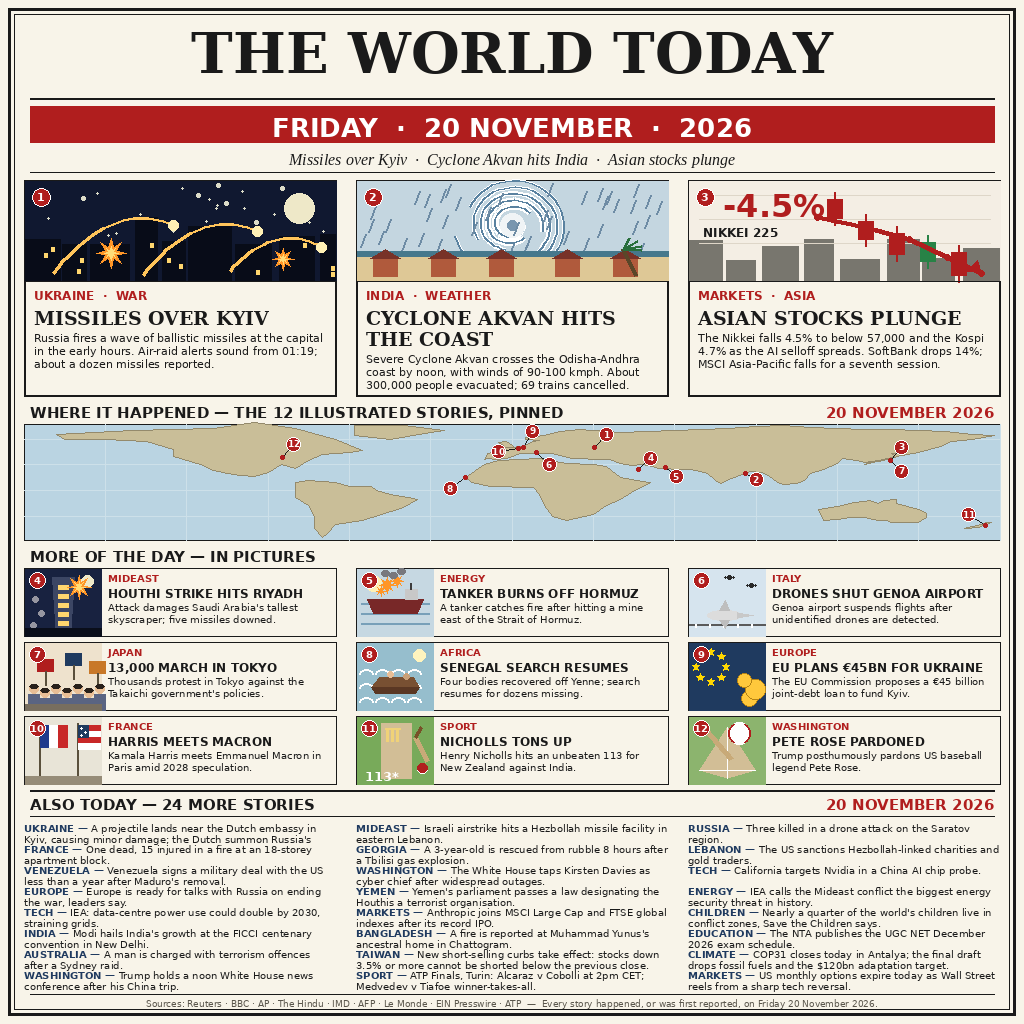
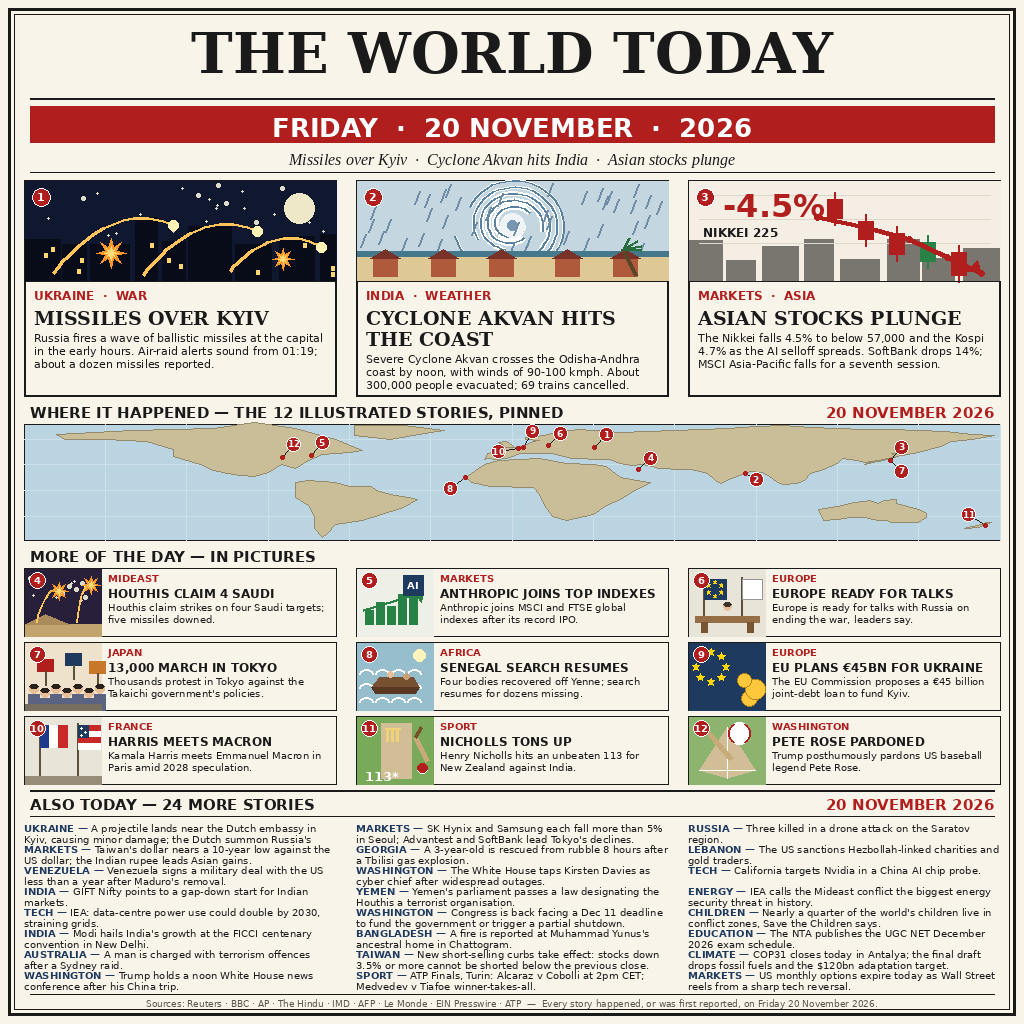
news-image-20261120 round 2: fix story dates, replace 4 items
Round-1 builder's verified exclusions + fresh checks showed four
round-2 items were first reported 19 Nov, not 20 Nov: the PIF Tower
strike, Genoa drone shutdown, Fontenay-sous-Bois fire and the Beqaa
strike (plus the Hormuz tanker mine strikes, 15-16 Nov). Replaced
with genuine 20 Nov stories: Houthis' fresh claim of four Saudi
strikes, Anthropic joining MSCI/FTSE indexes, Europe ready for
talks, and round-1-verified briefs (SK Hynix/Samsung slide, Taiwan
dollar low, GIFT Nifty, Congress Dec 11 deadline). Pins moved:
New York, Berlin. Also fixed an overlapping label in the index tile.

diff --git a/draw.py b/draw.py
@@ -195,56 +195,64 @@ def draw_markets(d, x, y, w, h, rng):
 
 # ------------------------------------------------------- small illustrations
 
-def draw_tower(d, x, y, w, h, rng):
-    """Riyadh's tallest skyscraper, struck: tower, burst, smoke."""
-    d.rectangle([x, y, x + w, y + h], fill=(24, 34, 64))
-    d.ellipse([x + w - 20, y + 6, x + w - 8, y + 18], fill=(238, 232, 200))
-    tx = x + w // 2 - 11
-    d.polygon([(tx, y + 8), (tx + 22, y + 8), (tx + 18, y + h),
-               (tx + 4, y + h)], fill=(60, 70, 100))
-    for wy in range(y + 16, y + h - 6, 9):
-        d.rectangle([tx + 6, wy, tx + 16, wy + 4], fill=(255, 214, 110))
-    star(d, x + w // 2 + 16, y + 18, 12, 5, 8, (255, 150, 40))
-    star(d, x + w // 2 + 16, y + 18, 6, 2, 8, (255, 220, 120))
-    for (sx, sy) in [(x + 10, y + 30), (x + 16, y + 44), (x + 8, y + 56)]:
-        d.ellipse([sx - 3, sy - 3, sx + 3, sy + 3], fill=(150, 150, 160))
-    d.rectangle([x, y + h - 8, x + w, y + h], fill=(10, 14, 26))
+def draw_intercept(d, x, y, w, h, rng):
+    """Houthi claim, 20 Nov: missiles rise over the desert, intercepts burst."""
+    d.rectangle([x, y, x + w, y + h], fill=(40, 32, 58))
+    for _ in range(14):
+        sx = x + rng.randint(4, w - 4)
+        sy = y + rng.randint(4, int(h * 0.5))
+        r = rng.choice([1, 1, 2])
+        d.ellipse([sx - r, sy - r, sx + r, sy + r], fill=(220, 220, 200))
+    d.rectangle([x, y + h - 12, x + w, y + h], fill=(194, 164, 110))
+    d.polygon([(x, y + h - 12), (x + 20, y + h - 22), (x + 44, y + h - 12)],
+              fill=(170, 140, 92))
+    for (sx, sy, ex, ey) in [(x + 12, y + h - 14, x + 34, y + 22),
+                             (x + 52, y + h - 14, x + 66, y + 16)]:
+        mx, my = (sx + ex) / 2, min(sy, ey) - 8
+        prev = None
+        for i in range(13):
+            t = i / 12
+            px = (1 - t) ** 2 * sx + 2 * (1 - t) * t * mx + t * t * ex
+            py = (1 - t) ** 2 * sy + 2 * (1 - t) * t * my + t * t * ey
+            if prev is not None:
+                d.line([prev, (px, py)], fill=(255, 196, 90), width=2)
+            prev = (px, py)
+        star(d, ex, ey, 9, 4, 8, (255, 150, 40))
+        star(d, ex, ey, 4, 2, 8, (255, 220, 120))
 
 
-def draw_tanker(d, x, y, w, h, rng):
-    """Tanker burning after hitting a mine off Hormuz."""
-    d.rectangle([x, y, x + w, y + h], fill=(198, 216, 226))
-    d.ellipse([x + 8, y + 6, x + 24, y + 22], fill=(255, 240, 180))
-    for wy in (y + 34, y + 44, y + 54):
-        d.line([(x + 4, wy), (x + w - 4, wy)], fill=(120, 160, 185), width=2)
-    hx, hy = x + 10, y + 30
-    d.polygon([(hx, hy), (hx + 56, hy), (hx + 50, hy + 14), (hx + 6, hy + 14)],
-              fill=(120, 40, 40))
-    d.rectangle([hx + 38, hy - 10, hx + 50, hy], fill=(200, 200, 200))
-    d.line([(hx + 44, hy - 10), (hx + 44, hy - 16)], fill=(60, 60, 60), width=2)
-    for (fx, fy, fr) in [(hx + 20, hy - 14, 8), (hx + 30, hy - 18, 6), (hx + 14, hy - 8, 5)]:
-        star(d, fx, fy, fr, fr // 2, 8, (255, 150, 40))
-    for (sx, sy) in [(hx + 26, hy - 24), (hx + 34, hy - 28), (hx + 18, hy - 26)]:
-        d.ellipse([sx - 4, sy - 3, sx + 4, sy + 3], fill=(120, 120, 125))
+def draw_index(d, x, y, w, h, rng):
+    """Anthropic joins the big indexes: rising green bars and an AI chip."""
+    d.rectangle([x, y, x + w, y + h], fill=(238, 240, 232))
+    for i, bh in enumerate([14, 22, 18, 30, 38]):
+        bx = x + 8 + i * 11
+        d.rectangle([bx, y + h - 12 - bh, bx + 8, y + h - 12],
+                    fill=(40, 130, 70))
+    d.line([(x + 6, y + h - 26), (x + 66, y + h - 44)], fill=(40, 130, 70), width=3)
+    d.polygon([(x + 66, y + h - 44), (x + 56, y + h - 44), (x + 64, y + h - 34)],
+              fill=(40, 130, 70))
+    cx, cy = x + w - 20, y + 16
+    d.rectangle([cx - 10, cy - 10, cx + 10, cy + 10], fill=(31, 58, 95))
+    d.text((cx, cy), "AI", font=sans_b(10), fill=(255, 255, 255), anchor="mm")
 
 
-def draw_drones(d, x, y, w, h, rng):
-    """Genoa airport: plane grounded, drones overhead."""
-    d.rectangle([x, y, x + w, y + h], fill=(214, 228, 238))
-    for (dx, dy) in [(x + 14, y + 12), (x + 40, y + 8), (x + 62, y + 16)]:
-        d.ellipse([dx - 2, dy - 2, dx + 2, dy + 2], fill=(40, 40, 40))
-        d.ellipse([dx - 5, dy - 1, dx - 3, dy + 1], fill=(40, 40, 40))
-        d.ellipse([dx + 3, dy - 1, dx + 5, dy + 1], fill=(40, 40, 40))
-    d.line([(x, y + h - 12), (x + w, y + h - 12)], fill=(90, 90, 90), width=2)
-    for lx in range(x + 6, x + w - 4, 14):
-        d.line([(lx, y + h - 12), (lx, y + h - 9)], fill=(255, 255, 255), width=2)
-    px, py = x + 18, y + h - 26
-    d.ellipse([px, py, px + 34, py + 10], fill=(220, 220, 220))
-    d.polygon([(px + 30, py + 2), (px + 46, py + 5), (px + 30, py + 8)],
-              fill=(200, 200, 200))
-    d.polygon([(px + 12, py), (px + 18, py - 10), (px + 22, py)], fill=(190, 190, 190))
-    d.polygon([(px + 12, py + 10), (px + 18, py + 18), (px + 22, py + 10)],
-              fill=(190, 190, 190))
+def draw_talks(d, x, y, w, h, rng):
+    """Europe ready for talks: a table with the EU flag and a white flag."""
+    d.rectangle([x, y, x + w, y + h], fill=(232, 228, 215))
+    d.line([(x + 14, y + 8), (x + 14, y + h - 20)], fill=(90, 80, 60), width=2)
+    d.line([(x + 52, y + 8), (x + 52, y + h - 20)], fill=(90, 80, 60), width=2)
+    d.rectangle([x + 15, y + 10, x + 37, y + 30], fill=(31, 58, 95))
+    for k in range(6):
+        a = 2 * math.pi * k / 6 - math.pi / 2
+        star(d, x + 26 + 7 * math.cos(a), y + 20 + 7 * math.sin(a),
+             2, 1, 5, (255, 215, 0))
+    d.rectangle([x + 53, y + 10, x + 73, y + 30], fill=(255, 255, 255),
+                outline=(150, 150, 150))
+    d.rectangle([x + 6, y + h - 20, x + w - 6, y + h - 14], fill=(150, 110, 70))
+    d.rectangle([x + 12, y + h - 14, x + 18, y + h - 4], fill=(120, 85, 50))
+    d.rectangle([x + w - 18, y + h - 14, x + w - 12, y + h - 4], fill=(120, 85, 50))
+    d.ellipse([x + 34, y + h - 34, x + 42, y + h - 26], fill=(232, 190, 150))
+    d.ellipse([x + 34, y + h - 34, x + 42, y + h - 30], fill=(60, 50, 40))
 
 
 def draw_crowd(d, x, y, w, h, rng):
@@ -369,15 +377,15 @@ LEADS = [
 ]
 
 MINIS = [
-    {"num": 4, "kicker": "MIDEAST", "headline": "HOUTHI STRIKE HITS RIYADH TOWER",
-     "body": "Attack damages Saudi Arabia's tallest skyscraper; five missiles downed.",
-     "draw": draw_tower},
-    {"num": 5, "kicker": "ENERGY", "headline": "TANKER BURNS OFF HORMUZ",
-     "body": "A tanker catches fire after hitting a mine east of the Strait of Hormuz.",
-     "draw": draw_tanker},
-    {"num": 6, "kicker": "ITALY", "headline": "DRONES SHUT GENOA AIRPORT",
-     "body": "Genoa airport suspends flights after unidentified drones are detected.",
-     "draw": draw_drones},
+    {"num": 4, "kicker": "MIDEAST", "headline": "HOUTHIS CLAIM 4 SAUDI STRIKES",
+     "body": "Houthis claim strikes on four Saudi targets; five missiles downed.",
+     "draw": draw_intercept},
+    {"num": 5, "kicker": "MARKETS", "headline": "ANTHROPIC JOINS TOP INDEXES",
+     "body": "Anthropic joins MSCI and FTSE global indexes after its record IPO.",
+     "draw": draw_index},
+    {"num": 6, "kicker": "EUROPE", "headline": "EUROPE READY FOR TALKS",
+     "body": "Europe is ready for talks with Russia on ending the war, leaders say.",
+     "draw": draw_talks},
     {"num": 7, "kicker": "JAPAN", "headline": "13,000 MARCH IN TOKYO",
      "body": "Thousands protest in Tokyo against the Takaichi government's policies.",
      "draw": draw_crowd},
@@ -400,19 +408,19 @@ MINIS = [
 
 BRIEFS = [
     ("UKRAINE", "A projectile lands near the Dutch embassy in Kyiv, causing minor damage; the Dutch summon Russia's ambassador."),
-    ("MIDEAST", "Israeli airstrike hits a Hezbollah missile facility in eastern Lebanon."),
+    ("MARKETS", "SK Hynix and Samsung each fall more than 5% in Seoul; Advantest and SoftBank lead Tokyo's declines."),
     ("RUSSIA", "Three killed in a drone attack on the Saratov region."),
-    ("FRANCE", "One dead, 15 injured in a fire at an 18-storey apartment block."),
+    ("MARKETS", "Taiwan's dollar nears a 10-year low against the US dollar; the Indian rupee leads Asian gains."),
     ("GEORGIA", "A 3-year-old is rescued from rubble 8 hours after a Tbilisi gas explosion."),
     ("LEBANON", "The US sanctions Hezbollah-linked charities and gold traders."),
     ("VENEZUELA", "Venezuela signs a military deal with the US less than a year after Maduro's removal."),
     ("WASHINGTON", "The White House taps Kirsten Davies as cyber chief after widespread outages."),
     ("TECH", "California targets Nvidia in a China AI chip probe."),
-    ("EUROPE", "Europe is ready for talks with Russia on ending the war, leaders say."),
+    ("INDIA", "GIFT Nifty points to a gap-down start for Indian markets."),
     ("YEMEN", "Yemen's parliament passes a law designating the Houthis a terrorist organisation."),
     ("ENERGY", "IEA calls the Mideast conflict the biggest energy security threat in history."),
     ("TECH", "IEA: data-centre power use could double by 2030, straining grids."),
-    ("MARKETS", "Anthropic joins MSCI Large Cap and FTSE global indexes after its record IPO."),
+    ("WASHINGTON", "Congress is back facing a Dec 11 deadline to fund the government or trigger a partial shutdown."),
     ("CHILDREN", "Nearly a quarter of the world's children live in conflict zones, Save the Children says."),
     ("INDIA", "Modi hails India's growth at the FICCI centenary convention in New Delhi."),
     ("BANGLADESH", "A fire is reported at Muhammad Yunus's ancestral home in Chattogram."),
@@ -471,8 +479,8 @@ PINS = [
     (2, 86.0, 19.8, 11, 6),
     (3, 139.7, 35.7, 11, -13),
     (4, 46.7, 24.7, 12, -11),
-    (5, 56.5, 26.5, 11, 9),
-    (6, 8.9, 44.4, 13, 12),
+    (5, -74.0, 40.7, 11, -13),
+    (6, 13.4, 52.5, 12, -12),
     (7, 139.7, 35.7, 11, 11),
     (8, -17.2, 14.7, -15, 11),
     (9, 4.35, 50.85, 9, -16),
